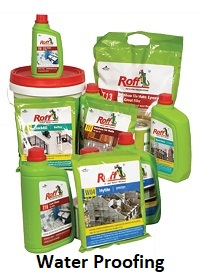
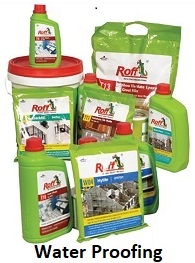
first commit

diff --git a/web/src/App.js b/web/src/App.js
@@ -8,6 +8,7 @@ import Products from './products';
 import Brands from './brands'; 
 import About from './about'; 
 import Contact from './contact'; 
+import Covid from './covid'; 
  
 
 /*import Home from './home'; 
@@ -31,6 +32,7 @@ class App extends Component {
             <br />
          <img src= "logo192.png"  alt="Error 404" />
          <p>Agrawal Sanitation</p>
+         
          <p> 
                 <Link to="/"><button type="button">HOME</button></Link> 
 
@@ -43,6 +45,8 @@ class App extends Component {
                 <Link to="/about"><button type="button">AWARDS & CERTIFICATES</button></Link> 
                
                 <Link to="/contact"><button type="button">CONTACT</button></Link> 
+
+                <Link to="/covid"><button type="button">COVID 19</button></Link>
               </p> 
  
  
@@ -52,12 +56,13 @@ class App extends Component {
               <Route exact path='/brands' component={Brands}></Route> 
               <Route exact path='/products' component={Products}></Route> 
               <Route exact path='/contact' component={Contact}></Route> 
+              <Route exact path='/covid' component={Covid}></Route>
               </Switch>
              
  
  
  
- 
+              <p><img src= "ceramics.jpg"  alt="ceramics" /><img src= "Taps.jpg"  alt="Adhesives" /></p> 
  
  
         
@@ -69,7 +74,7 @@ class App extends Component {
          </p>
          <p><a href= "closets.jpg"><img src= "Water Closets.jpg"  alt="Water Closets"  /></a> &nbsp; 
          <Link to="/"><img src= "Pedestal_Basin.jpg"  alt="Pedestal_Basin" /></Link> &nbsp;
-         <a href= "bathroom.jpg"><img src= "Bathroom Accessories.jpg"  alt="Bathroom Accessories" /></a>&nbsp;  
+         <a href= "bathroom.jpg"><img src= "Bathroom Accessories.jpg"  alt="Bathroom Accessories" /></a> &nbsp;  
          <a href= "faucet.jpg"><img src= "Faucets.jpg"  alt="Faucets" /></a> &nbsp; 
          <a href= "shower.jpg"><img src= "showers.jpg"  alt="showers" /></a> &nbsp;
          <a href= "cisterns.jpg"><img src= "cistern.jpg"  alt="cistern" /></a> &nbsp; 
@@ -83,6 +88,8 @@ class App extends Component {
          <a href= "adhesive.jpg"><img src= "Adhesives.jpg"  alt="Adhesives" /></a> &nbsp;
          <a href= "sink.jpg"><img src= "Kitchen sink.jpg"  alt="Kitchen sink" /></a>  &nbsp;
          <a href= "spares.jpg"><img src= "Sanitary spares.jpg"  alt="Sanitary spares" /></a>  </p>
+
+         <p><a href= "roff.jpg"><img src= "waterproofing.jpg"  alt="Water Closets"  /></a></p>
        
          
        
@@ -152,13 +159,17 @@ class App extends Component {
          Phone:<br/><input type="text" id="fname" name="fname"></input><br/>
          Enter your message:<br/> <input type="text" id="fname" name="fname"></input>
          <br></br><button type="button">Send</button></p>
-       
+         
+         <p>We are leading retailer of Sanitaryware, Bath Fittings, Faucets, CPVC Pipes, UPVC Pipes, SWR Pipes, UDS Pipes, Pipes Fittings, Water Tank, and Adhesives and Sealants etc. We offer 15+ leading brands under one roof and we are proud of our database of 1000+ satisfied customers.</p>
+         <img src= "clips.png"  alt="Sanitary spares" />
+       <p>© Agrawal Sanitation 2020 All Rights Reserved design and develop by @kshay</p>
       
             </ul> 
             
           </div> 
        </Router> 
        //<div className="App">
+       
        
    ); 
   } 

diff --git a/web/src/covid.js b/web/src/covid.js
@@ -1,0 +1,52 @@
+
+import React from 'react'; 
+  
+function Covid () { 
+  // import React, { Component } from 'react';
+
+//class About extends Component{
+   // render(){
+    return <div> 
+    <h2>
+        <p className="App-blue"> Agrawal Sanitation </p>
+        <p><img src= "1.jpg"  alt="ceramics" /><img src= "2.jpg"  alt="Adhesives" /></p>
+<p>लोहरदगा@ युवा ने बनाया हैंड फ्री सैनिटाइजर डिस्पेंसर... लोहरदगा के अपर बाजार निवासी आकाश कुमार मित्तल, (पिता -पंकज अग्रवाल )के द्वारा हैंड फ्री सैनिटाइजर डिस्पेंसर (मशीन )बनाया गया और आज हैंडफ्री सैनिटाइजर डिस्पेंसर को लोहरदगा के सिविल सर्जन विजय कुमार जी को सौंपा गया और बताया गया कि इसमे पैर से दबाने से सैनिटाइजर ऊपर से निकलता है और इसमें हाथ लगाने की जरूरत नहीं है !इस पर सिविल सर्जन ने कहा कि यह एक बहुत अच्छी पहल है युवा के द्वारा और बिना हाथ से छुए हुए सैनिटाइजर का उपयोग किया जा सकता है !
+    इस मौके पर आकाश कुमार मित्तल ने कहा हमारी अपनी अग्रवाल सैनिटेशन दुकान है , लॉक डाउन में बैठे-बैठे दिमाग  में आया कि क्यों ना हैंड फ्री सैनिटाइजर डिस्पेंसर बनाया जाए  और हमने बना दिया! इस मौके पर सामाजिक विचार मंच के संयोजक कंवलजीत सिंह, अजय अग्रवाल, पंकज अग्रवाल, अक्षय कुमार आदि उपस्थित थे। <br />
+    <br /> 
+    <a
+           className="App-link"
+           href= "https://public.app/s/LbEnX"
+           target="_blank"
+           rel="noopener noreferrer"
+         >
+            https://public.app/s/LbEnX
+         </a><br />
+         <a
+           className="App-link"
+           href= "http://allnewsnewindia.com/.../18/jharkhand-lohardaga-2145/"
+           target="_blank"
+           rel="noopener noreferrer"
+         >
+            http://allnewsnewindia.com/.../18/jharkhand-lohardaga-2145/
+         </a><br />
+         <a
+           className="App-link"
+           href= "http://www.jharkhandnewsexpress.in/jharkhand-news-926/"
+           target="_blank"
+           rel="noopener noreferrer"
+         >
+            http://www.jharkhandnewsexpress.in/jharkhand-news-926/
+         </a>
+         
+<br />
+</p> 
+</h2>
+      
+</div> 
+
+  
+        
+    
+} 
+//}
+export default Covid; 

diff --git a/web/src/about.js b/web/src/about.js
@@ -12,7 +12,7 @@ function About () {
 Agrawal Sanitation focuses on quality assurance with guarantee & warranty products. The main objective is to provide high quality assurance products to its valued customers with competent price. <br />
 We provide our products in Lohardaga and also outside the valley (i.e. Chandwa, Latehar, Gumla, e.t.c.) </p>
 
-<p className="App-red">Our Core Value :</p>  <br />
+<p className="App-red">Our Core Values :</p>  
 Customer delight : <br /><i> We believe in the philosophy of <br /> “once a customer- always a customer”<br /> Once you walk through our door, you will always want to return to us for all your Sanitaryware and Pipes needs.</i><br /><br />
 Quality :<i> We are committed to supplying the highest quality products and strive to surpass customer expectations.</i><br /><br />
 Value for money :<i> We understand the value of money and ensure that our customers feel completely content about what they spend at Agrawal Sanitation in terms of cost and quality.</i><br /><br />
